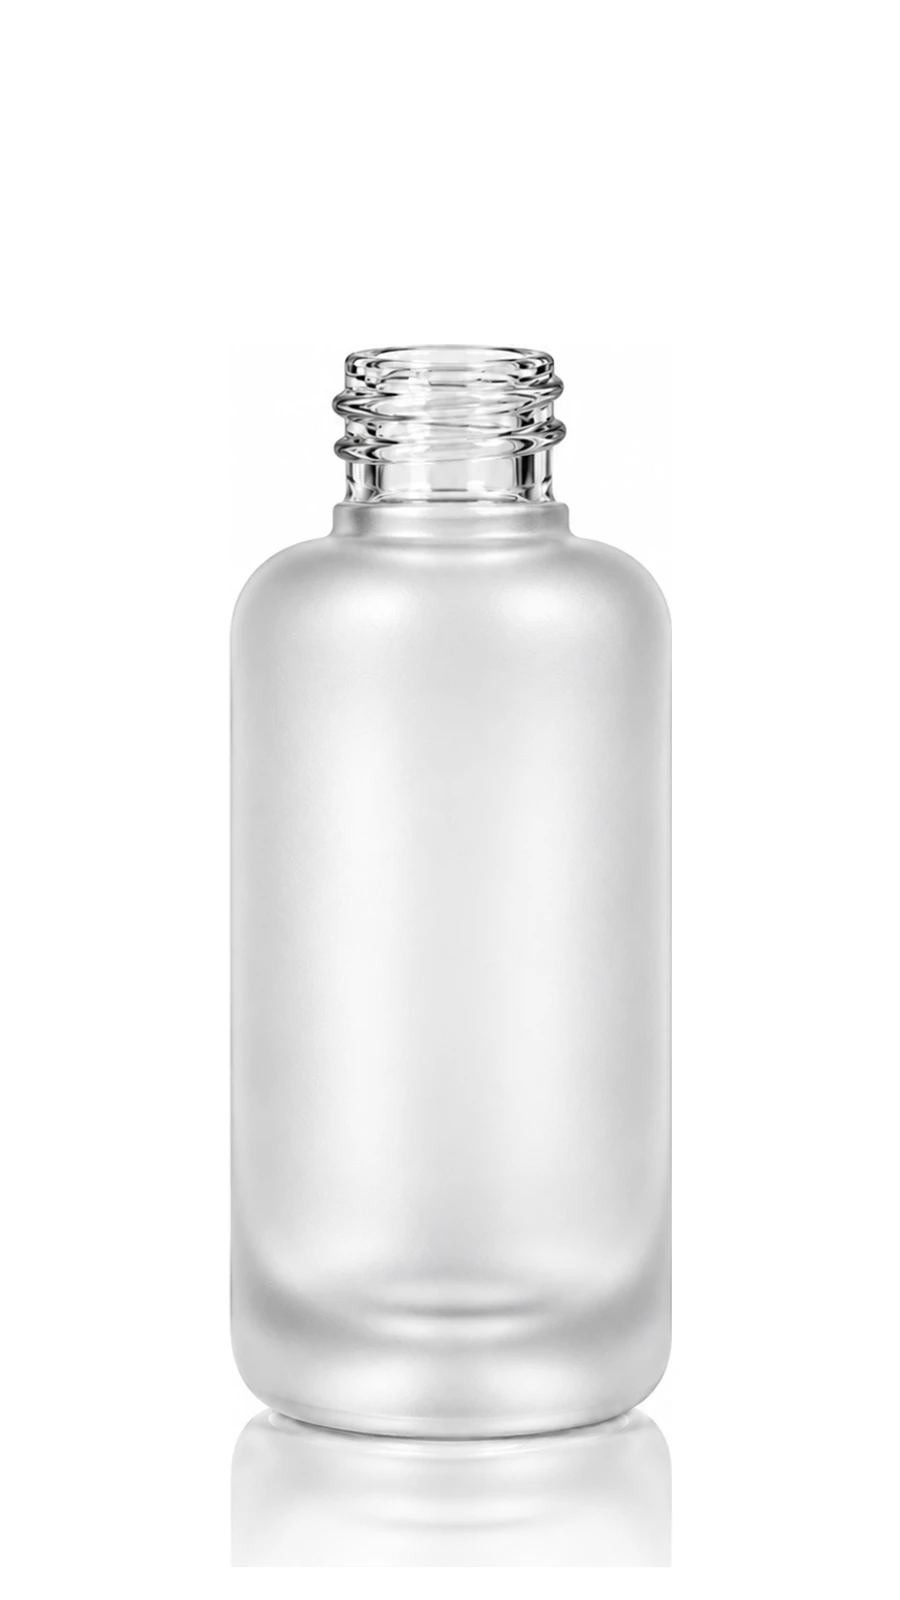
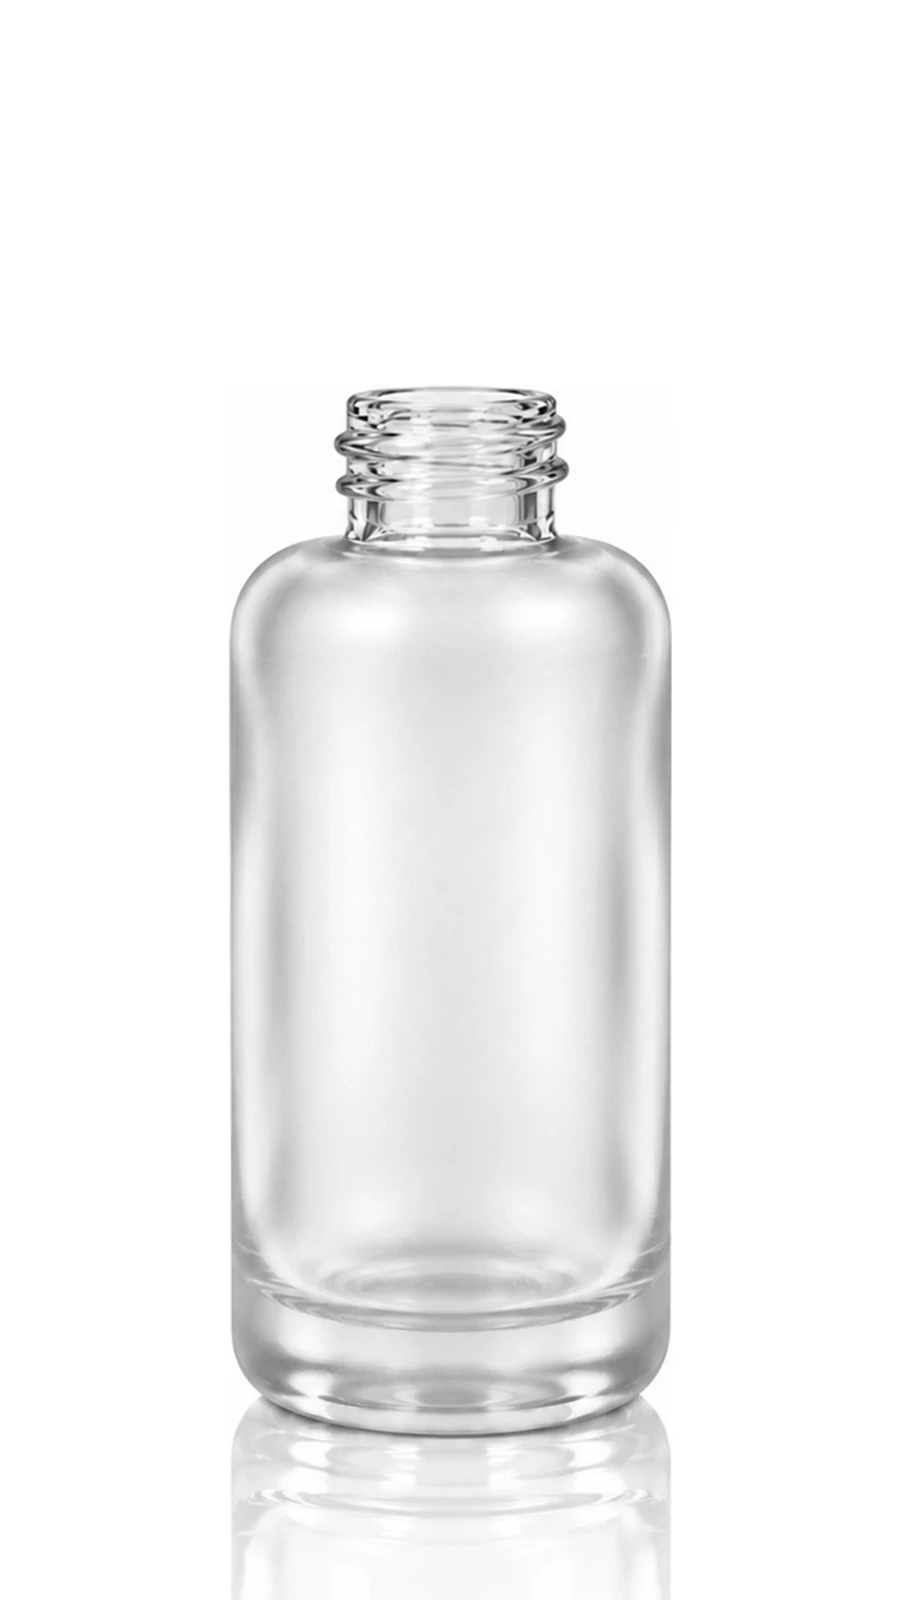
fix: 스포이드 캡과 피펫 연결, 라벨 장면을 부식 후 라벨로 교체

Changed region(s): [[0.2489, 0.1875, 0.7467, 0.9375]]

diff --git a/src/data/home.ts b/src/data/home.ts
@@ -62,7 +62,7 @@ export const processScene = {
   dropperCap: "dropperCap" as AssetId,
   dropperPipette: "dropperPipette" as AssetId,
   /** 라벨이 피펫을 가리는 구간(캔버스 높이 대비 %) — proc-label 실측 */
-  labelBand: { top: 41.25, bottom: 86.25 },
+  labelBand: { top: 44.4, bottom: 72.5 }, // proc-label(부식 후 라벨) 실측 710–1160행
   /** 체결 후 함께 등장하는 실제 제품 (기준병 양옆) */
   expandTo: ["YS-SRRR15-01_02", "YS-SRRR30-02_01", "YS-SRRR30-04_01", "YS-SRRR50-02_01"] as AssetId[],
 };

diff --git a/docs/decisions.md b/docs/decisions.md
@@ -74,6 +74,9 @@
 | 2026-10-14 | 부자재 체결 | 스포이드 · 캡이 **병 위에서 수직으로 내려와** 목에 결합 → 살짝 눌렸다 자리 잡음 + 목 부분 빛. 캡은 불투명, 피펫은 유리처럼 비쳐 보이고 라벨 구간에서 가려짐(scripts/build-dropper-parts.mjs) |
 | 2026-10-14 | 공정 모션 속도 | 고정 구간 2.2 → 3.4화면(모바일 1.7 → 2.6), scrub 0.8 → 1.4, 공정 간 머무름 추가, sine 가감속 |
 | 2026-10-14 | 인트로 재생 | "세션 내 1회" · 스크롤 이벤트 건너뛰기 제거 → 매 방문 재생. 휠 · 터치 · 이동 키 입력 시에만 마지막 장면으로 |
+| 2026-10-14 | 공정 장면 교체 | 라벨 장면 = **부식 후 라벨**(인쇄 장면은 코팅 후 인쇄 유지) → 흐름: 코팅 → 코팅 후 인쇄 → 부식 → 부식 후 라벨 |
+| 2026-10-14 | 스포이드 연결 | 원본 사진의 캡 · 피펫 간격(약 88px)을 없애도록 피펫을 110px 올려 캡 안으로 연결 |
+| 2026-10-14 | 인트로 | 첫 어두운 장면(유리 접사 반전)이 예쁘지 않다는 의견 → 다음 작업일에 점검 |
 | 2026-10-14 | CONTACT 첫 시안 | 폼 제출은 `submitInquiry()`에서 0.7초 처리 후 데모 안내만 표시. 운영 시 이 함수만 교체 |
 
 ## 브랜드 색 기준 (잠정)
